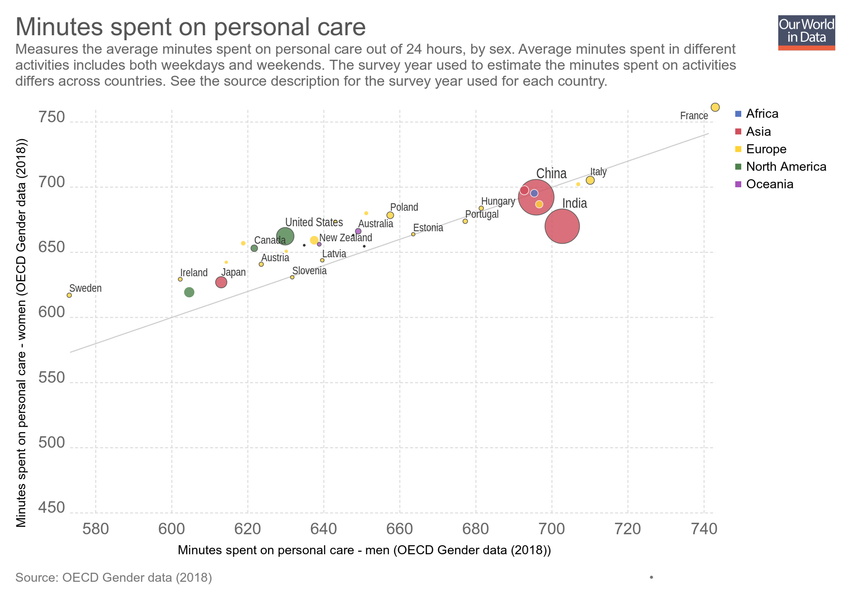
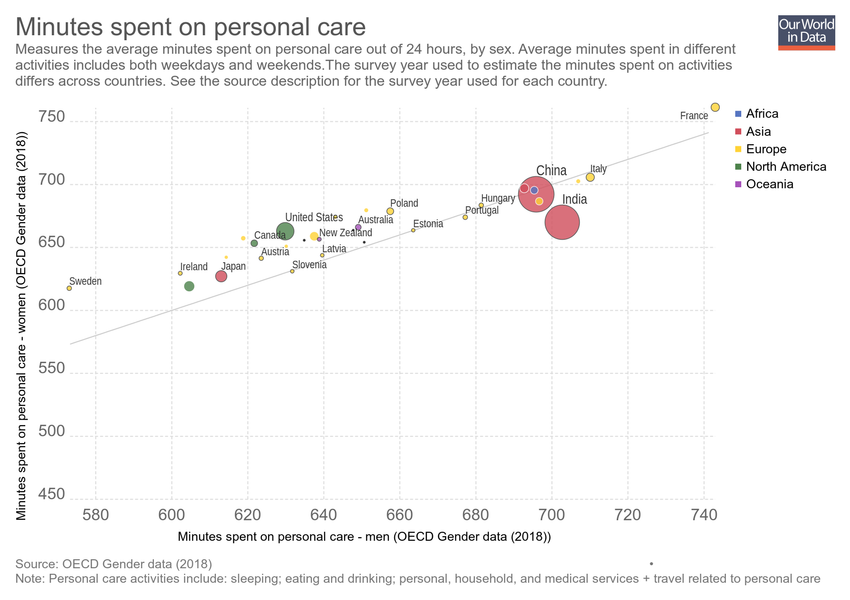
Updating chart minutes-spent-on-personal-care

diff --git a/grapher/minutes-spent-on-personal-care.html b/grapher/minutes-spent-on-personal-care.html
@@ -1,4 +1,4 @@
-<!doctype html><html><head><meta name="viewport" content="width=device-width, initial-scale=1" /><title>Minutes spent on personal care - Our World in Data</title><meta name="description" content="Measures the average minutes spent on personal care out of 24 hours, by sex. Average minutes spent in different activities includes both weekdays and weekends. The survey year used to estimate the minutes spent on activities differs across countries. See the source description for the survey year used for each country." /><link rel="canonical" href="https://ourworldindata.org/grapher/minutes-spent-on-personal-care" /><meta property="fb:app_id" content="1149943818390250" /><meta property="og:url" content="https://ourworldindata.org/grapher/minutes-spent-on-personal-care" /><meta property="og:title" content="Minutes spent on personal care" /><meta property="og:description" content="Measures the average minutes spent on personal care out of 24 hours, by sex. Average minutes spent in different activities includes both weekdays and weekends. The survey year used to estimate the minutes spent on activities differs across countries. See the source description for the survey year used for each country." /><meta property="og:image" content="https://ourworldindata.org/grapher/exports/minutes-spent-on-personal-care.png?v=1" /><meta property="og:image:width" content="850" /><meta property="og:image:height" content="600" /><meta property="og:site_name" content="Our World in Data" /><meta name="twitter:card" content="summary_large_image" /><meta name="twitter:site" content="@OurWorldInData" /><meta name="twitter:creator" content="@OurWorldInData" /><meta name="twitter:title" content="Minutes spent on personal care" /><meta name="twitter:description" content="Measures the average minutes spent on personal care out of 24 hours, by sex. Average minutes spent in different activities includes both weekdays and weekends. The survey year used to estimate the minutes spent on activities differs across countries. See the source description for the survey year used for each country." /><meta name="twitter:image" content="https://ourworldindata.org/grapher/exports/minutes-spent-on-personal-care.png?v=1" /><style>
+<!doctype html><html><head><meta name="viewport" content="width=device-width, initial-scale=1" /><title>Minutes spent on personal care - Our World in Data</title><meta name="description" content="Measures the average minutes spent on personal care out of 24 hours, by sex. Average minutes spent in different activities includes both weekdays and weekends.The survey year used to estimate the minutes spent on activities differs across countries. See the source description for the survey year used for each country." /><link rel="canonical" href="https://ourworldindata.org/grapher/minutes-spent-on-personal-care" /><meta property="fb:app_id" content="1149943818390250" /><meta property="og:url" content="https://ourworldindata.org/grapher/minutes-spent-on-personal-care" /><meta property="og:title" content="Minutes spent on personal care" /><meta property="og:description" content="Measures the average minutes spent on personal care out of 24 hours, by sex. Average minutes spent in different activities includes both weekdays and weekends.The survey year used to estimate the minutes spent on activities differs across countries. See the source description for the survey year used for each country." /><meta property="og:image" content="https://ourworldindata.org/grapher/exports/minutes-spent-on-personal-care.png?v=2" /><meta property="og:image:width" content="850" /><meta property="og:image:height" content="600" /><meta property="og:site_name" content="Our World in Data" /><meta name="twitter:card" content="summary_large_image" /><meta name="twitter:site" content="@OurWorldInData" /><meta name="twitter:creator" content="@OurWorldInData" /><meta name="twitter:title" content="Minutes spent on personal care" /><meta name="twitter:description" content="Measures the average minutes spent on personal care out of 24 hours, by sex. Average minutes spent in different activities includes both weekdays and weekends.The survey year used to estimate the minutes spent on activities differs across countries. See the source description for the survey year used for each country." /><meta name="twitter:image" content="https://ourworldindata.org/grapher/exports/minutes-spent-on-personal-care.png?v=2" /><style>
         html, body {
             height: 100%;
             margin: 0;
@@ -20,8 +20,8 @@
         }
     </style><noscript><style>
                     figure { display: none !important; }
-                </style></noscript><link rel="stylesheet" href="https://ourworldindata.org/grapher/assets/commons.bundle.019a92548339820130b6.css" /><link rel="preload" href="/grapher/data/variables/96619+96614+72+123.json?v=1" as="fetch" crossorigin /></head><body class="singleChart"><figure data-grapher-src="/grapher/minutes-spent-on-personal-care"></figure><noscript id="fallback"><img src="/grapher/exports/minutes-spent-on-personal-care.svg" /><p>Interactive visualization requires JavaScript</p></noscript><script src="https://cdn.polyfill.io/v2/polyfill.min.js?features=es6,fetch"></script><script src="https://ourworldindata.org/grapher/assets/commons.bundle.019a92548339820130b6.js"></script><script src="https://ourworldindata.org/grapher/assets/charts.bundle.dcf65b68eddaba4c6a58.js"></script><script>
-        var jsonConfig = {"map":{"projection":"World","colorSchemeLabels":[],"colorSchemeValues":[],"colorSchemeMinValue":0,"customNumericColors":[],"customCategoryColors":{},"customCategoryLabels":{},"customHiddenCategories":{}},"tab":"chart","slug":"minutes-spent-on-personal-care","type":"ScatterPlot","title":"Minutes spent on personal care","xAxis":{"scaleType":"linear"},"yAxis":{"min":450,"scaleType":"linear"},"version":1,"subtitle":"Measures the average minutes spent on personal care out of 24 hours, by sex. Average minutes spent in different activities includes both weekdays and weekends. The survey year used to estimate the minutes spent on activities differs across countries. See the source description for the survey year used for each country.","hasMapTab":false,"stackMode":"absolute","dimensions":[{"display":{},"property":"y","variableId":96619},{"display":{},"property":"x","variableId":96614},{"display":{},"property":"size","variableId":72},{"display":{},"property":"color","variableId":123}],"isAutoSlug":true,"hasChartTab":true,"isPublished":true,"selectedData":[],"comparisonLine":{},"hideTitleAnnotation":true,"id":2540};
+                </style></noscript><link rel="stylesheet" href="https://ourworldindata.org/grapher/assets/commons.bundle.019a92548339820130b6.css" /><link rel="preload" href="/grapher/data/variables/96619+96614+72+123.json?v=2" as="fetch" crossorigin /></head><body class="singleChart"><figure data-grapher-src="/grapher/minutes-spent-on-personal-care"></figure><noscript id="fallback"><img src="/grapher/exports/minutes-spent-on-personal-care.svg" /><p>Interactive visualization requires JavaScript</p></noscript><script src="https://cdn.polyfill.io/v2/polyfill.min.js?features=es6,fetch"></script><script src="https://ourworldindata.org/grapher/assets/commons.bundle.019a92548339820130b6.js"></script><script src="https://ourworldindata.org/grapher/assets/charts.bundle.dcf65b68eddaba4c6a58.js"></script><script>
+        var jsonConfig = {"id":2540,"map":{"projection":"World","colorSchemeLabels":[],"colorSchemeValues":[],"colorSchemeMinValue":0,"customNumericColors":[],"customCategoryColors":{},"customCategoryLabels":{},"customHiddenCategories":{}},"tab":"chart","note":"Personal care activities include: sleeping; eating and drinking; personal, household, and medical services + travel related to personal care","slug":"minutes-spent-on-personal-care","type":"ScatterPlot","title":"Minutes spent on personal care","xAxis":{"scaleType":"linear"},"yAxis":{"min":450,"scaleType":"linear"},"version":2,"subtitle":"Measures the average minutes spent on personal care out of 24 hours, by sex. Average minutes spent in different activities includes both weekdays and weekends.The survey year used to estimate the minutes spent on activities differs across countries. See the source description for the survey year used for each country.","hasMapTab":false,"stackMode":"absolute","dimensions":[{"display":{},"property":"y","variableId":96619},{"display":{},"property":"x","variableId":96614},{"display":{},"property":"size","variableId":72},{"display":{},"property":"color","variableId":123}],"hasChartTab":true,"isPublished":true,"selectedData":[],"comparisonLine":{},"hideTitleAnnotation":true};
         var figure = document.getElementsByTagName("figure")[0];
         try {
             window.App = {};
